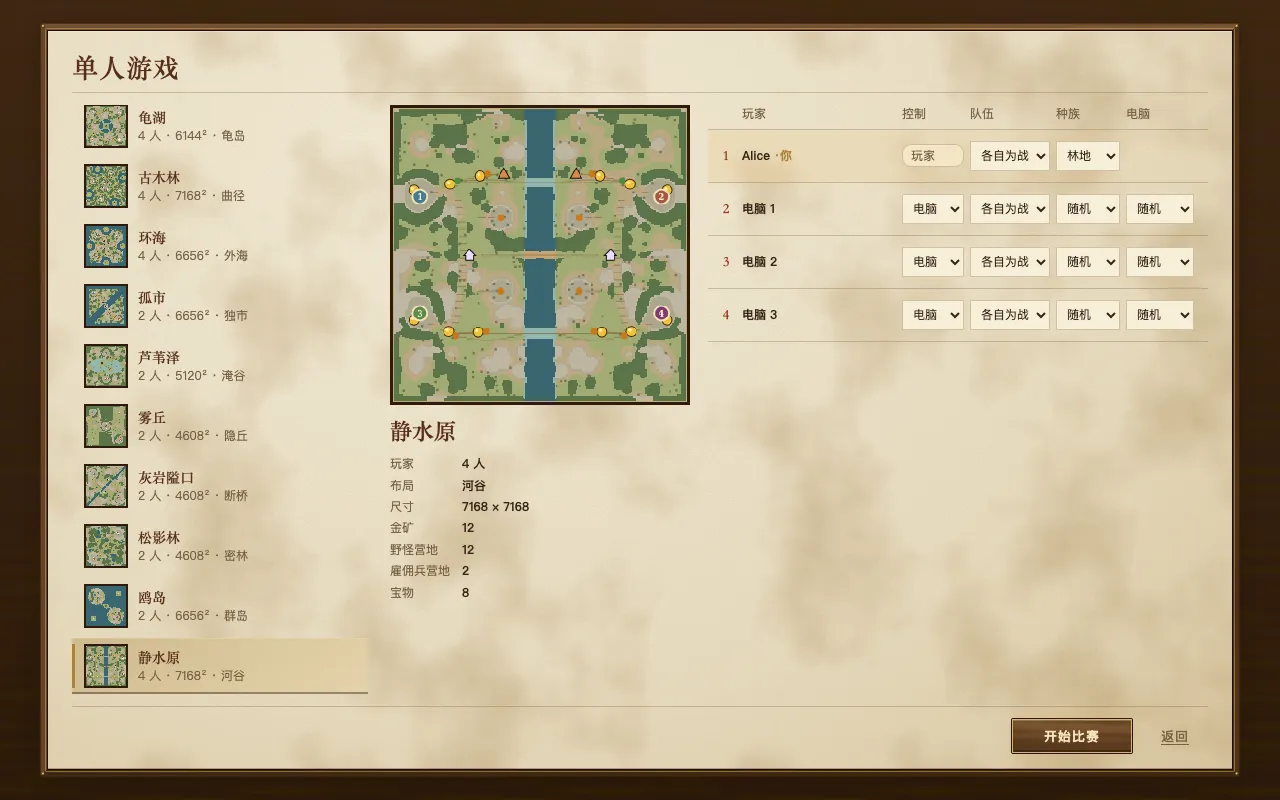
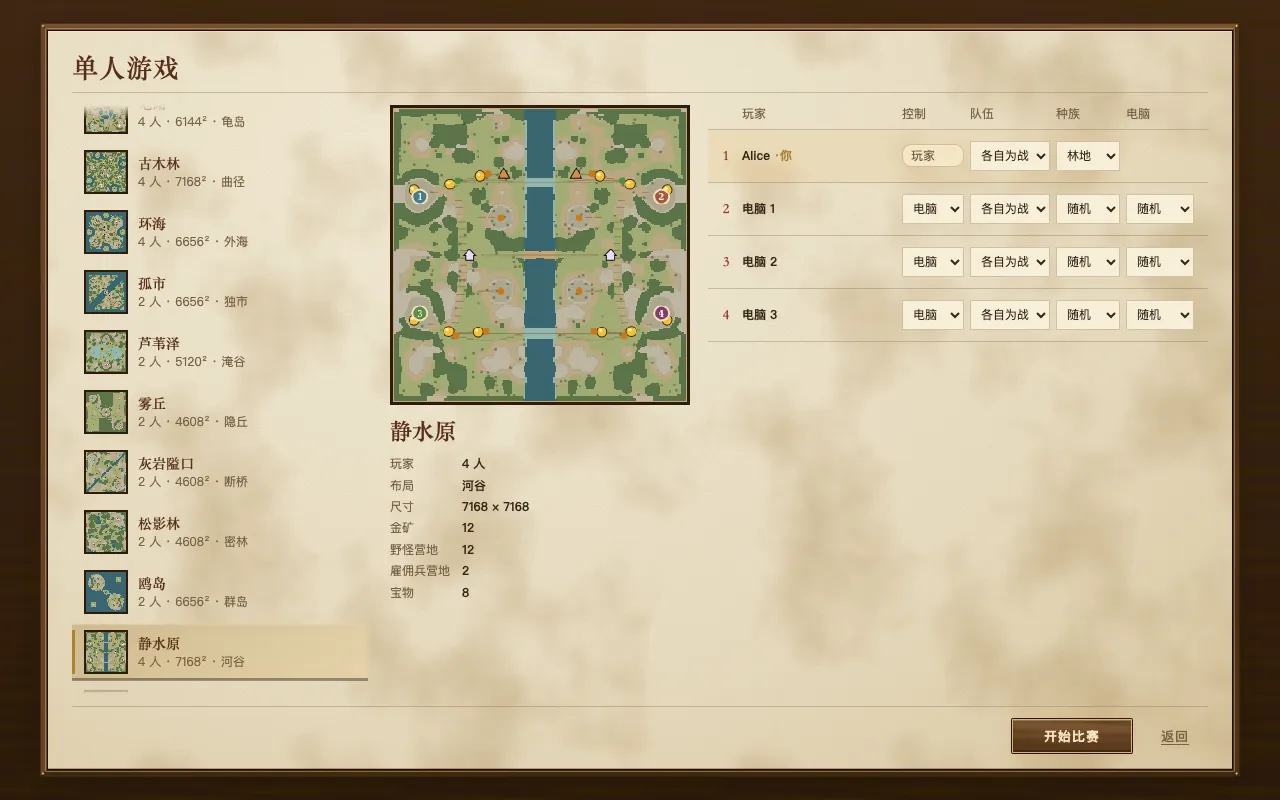
docs(room-flow): scrolled map grids and lists fade at their edges (Art Lane's note)

Changed region(s): [[0.0312, 0.125, 0.2812, 0.875], [0.2188, 0.7812, 0.25, 0.8125]]

diff --git a/docs/room-flow/redesign/visual-kit.css b/docs/room-flow/redesign/visual-kit.css
@@ -146,3 +146,6 @@ body { background: var(--walnut); color: var(--game-ink); font: 13px/1.45 var(--
   .seat-row > .seat-ai { grid-area: ai; }
   .seat-row > .seat-ready { grid-area: ready; }
 }
+
+/* A scrolled map grid or list fades at its edges instead of cutting the cards flat (Art Lane). */
+.map-grid, .map-list { mask-image: linear-gradient(transparent, #000 14px, #000 calc(100% - 14px), transparent); scroll-padding-block: 14px; }
